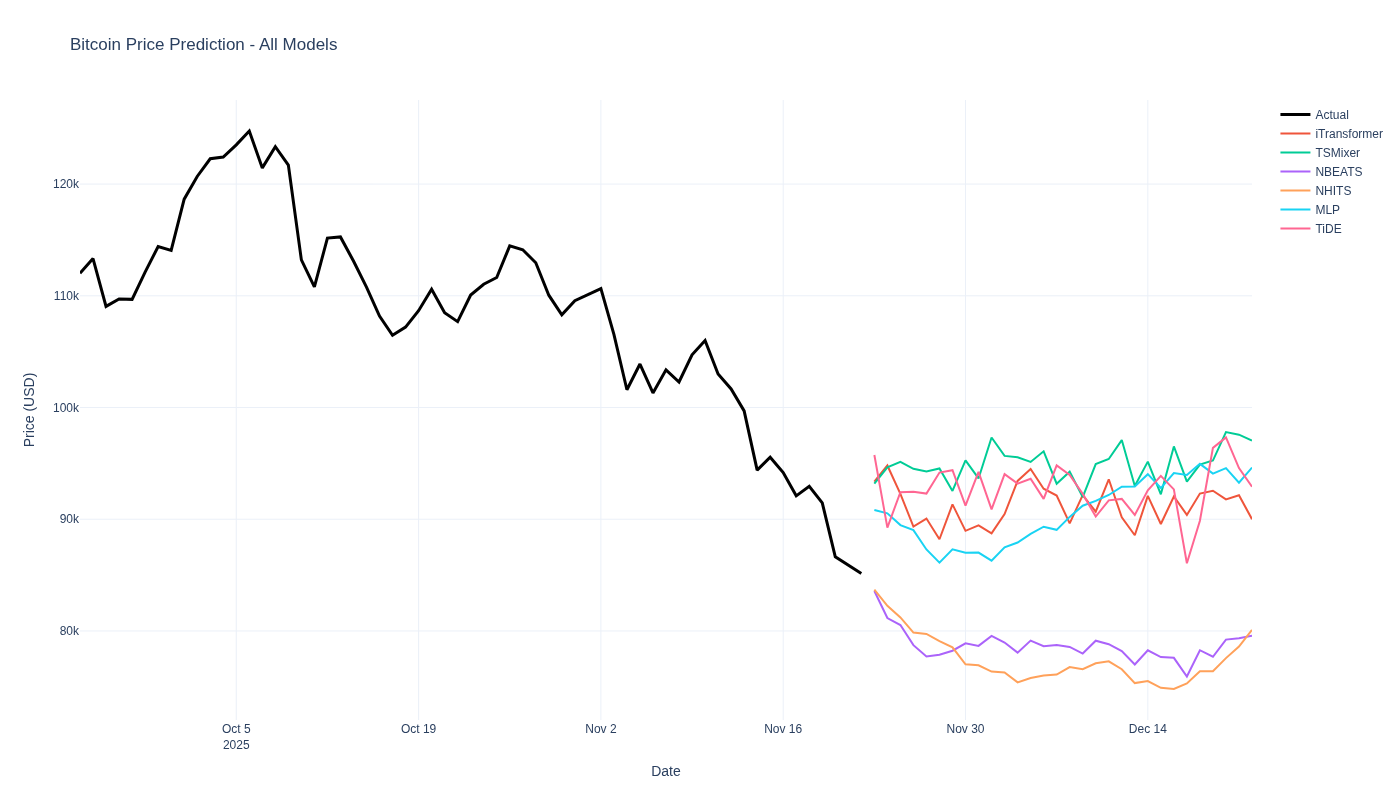
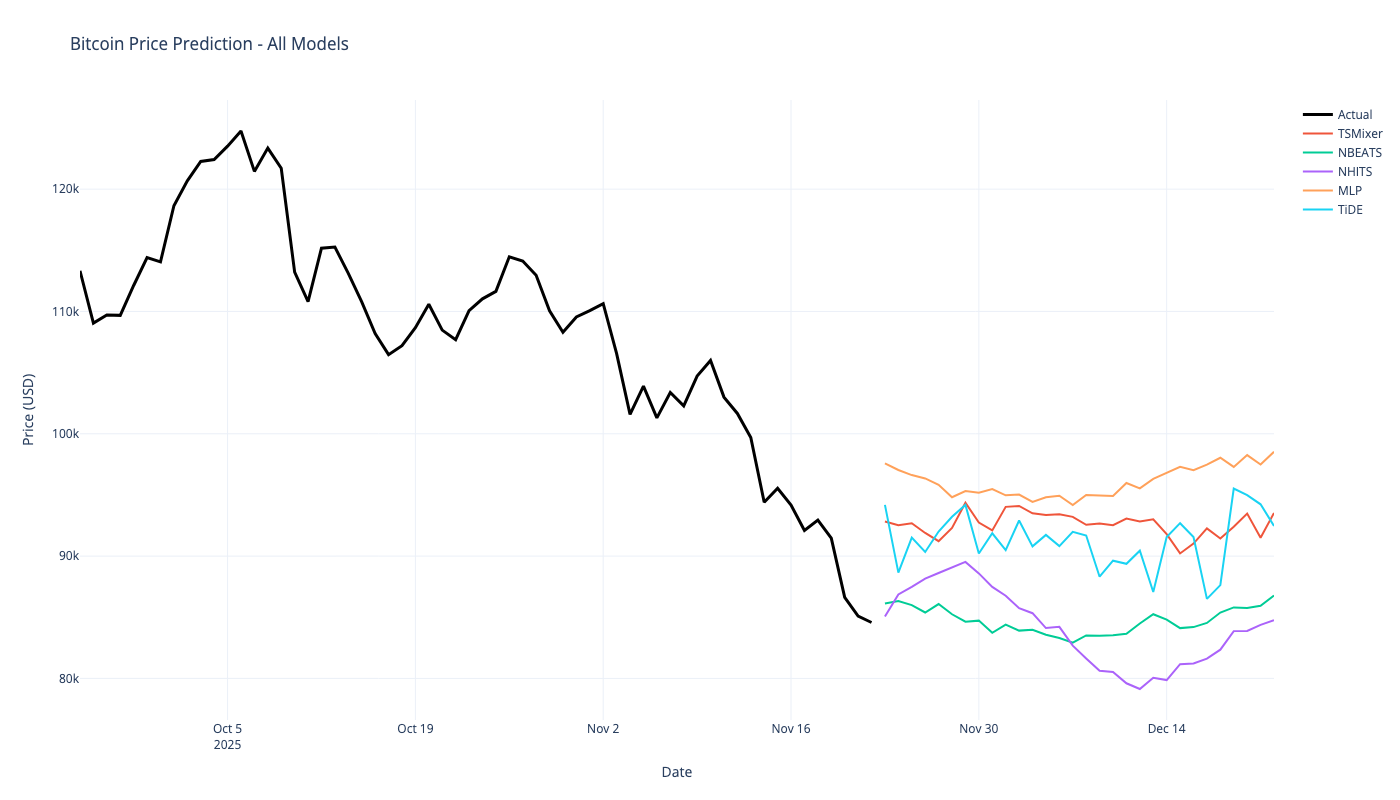
[PERF] optimize hyperparams for btc and eth {TSmixer}

diff --git a/update_btc.py b/update_btc.py
@@ -14,10 +14,8 @@ btc_df.insert(0, "unique_id", "1.0")
 horizon = 30
 
 models = [
-    iTransformer(h=horizon, input_size=336, n_series=1, hidden_size=512, n_heads=16, e_layers=6, 
-                 d_ff=1024, max_steps=350, learning_rate=5e-4, scaler_type='robust', batch_size=32),
-    TSMixer(h=horizon, n_series=1, input_size=336, n_block=4, ff_dim=512, dropout=0.2,
-            revin=True, max_steps=350, learning_rate=5e-4, scaler_type="robust", batch_size=32),
+    TSMixer(h=horizon, n_series=1, input_size=int(horizon*4), n_block=3, ff_dim=128, dropout=0.3, revin=True,
+        scaler_type="identity", max_steps=400, learning_rate=5e-4, batch_size=32,early_stop_patience_steps=10),
     NBEATS(h=horizon, input_size=336, max_steps=350, learning_rate=1e-3, scaler_type="robust",
            n_blocks=[3, 3, 2], mlp_units=[[512, 512], [512, 512], [512, 512]], 
            stack_types=["trend", "seasonality", "identity"], batch_size=32),
@@ -32,7 +30,7 @@ models = [
 
 print("Training models...")
 nf = NeuralForecast(models=models, freq="D")
-nf.fit(df=btc_df)
+nf.fit(df=btc_df, val_size=horizon)
 
 print("Generating predictions...")
 Y_hat_df = nf.predict()
@@ -46,7 +44,7 @@ fig.add_trace(go.Scatter(x=recent_data["ds"], y=recent_data["y"],
                          name="Actual", line=dict(color="black", width=3)))
 
 # Add forecasts
-models_list = ["iTransformer", "TSMixer", "NBEATS", "NHITS", "MLP", "TiDE"]
+models_list = ["TSMixer", "NBEATS", "NHITS", "MLP", "TiDE"]
 for model in models_list:
     fig.add_trace(go.Scatter(x=Y_hat_df["ds"], y=Y_hat_df[model], 
                              name=model, line=dict(width=2)))

diff --git a/update_eth.py b/update_eth.py
@@ -13,8 +13,8 @@ eth_df.insert(0, "unique_id", "1.0")
 horizon = 30
 
 models = [
-    TSMixer(h=horizon, n_series=1, input_size=720, n_block=6, ff_dim=512, dropout=0.2, 
-            revin=True, max_steps=300, learning_rate=5e-3, scaler_type="robust", batch_size=64),
+    TSMixer(h=horizon, n_series=1, input_size=int(horizon*3), n_block=2, ff_dim=64, dropout=0.4, revin=True,
+        scaler_type="identity", max_steps=400, learning_rate=1e-3, batch_size=32, early_stop_patience_steps=10),
     NBEATS(h=horizon, input_size=336, max_steps=350, learning_rate=1e-3, scaler_type="robust",
            n_blocks=[3, 3, 2], mlp_units=[[512, 512], [512, 512], [512, 512]], 
            stack_types=["trend", "seasonality", "identity"], batch_size=32),
@@ -29,7 +29,7 @@ models = [
 
 print("Training models...")
 nf = NeuralForecast(models=models, freq="D")
-nf.fit(df=eth_df)
+nf.fit(df=eth_df, val_size=horizon)
 
 print("Generating predictions...")
 Y_hat_df = nf.predict()
